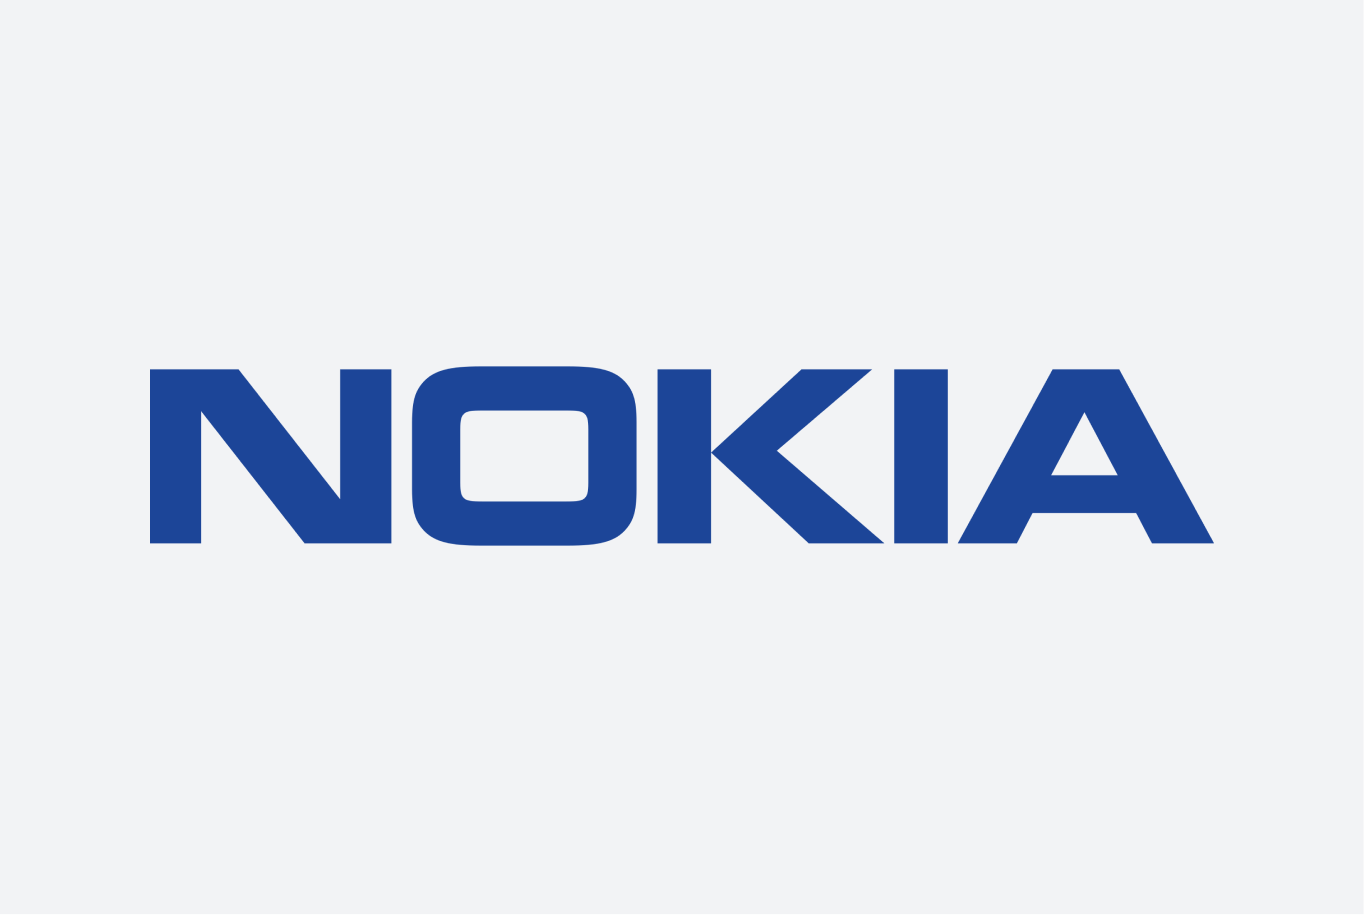
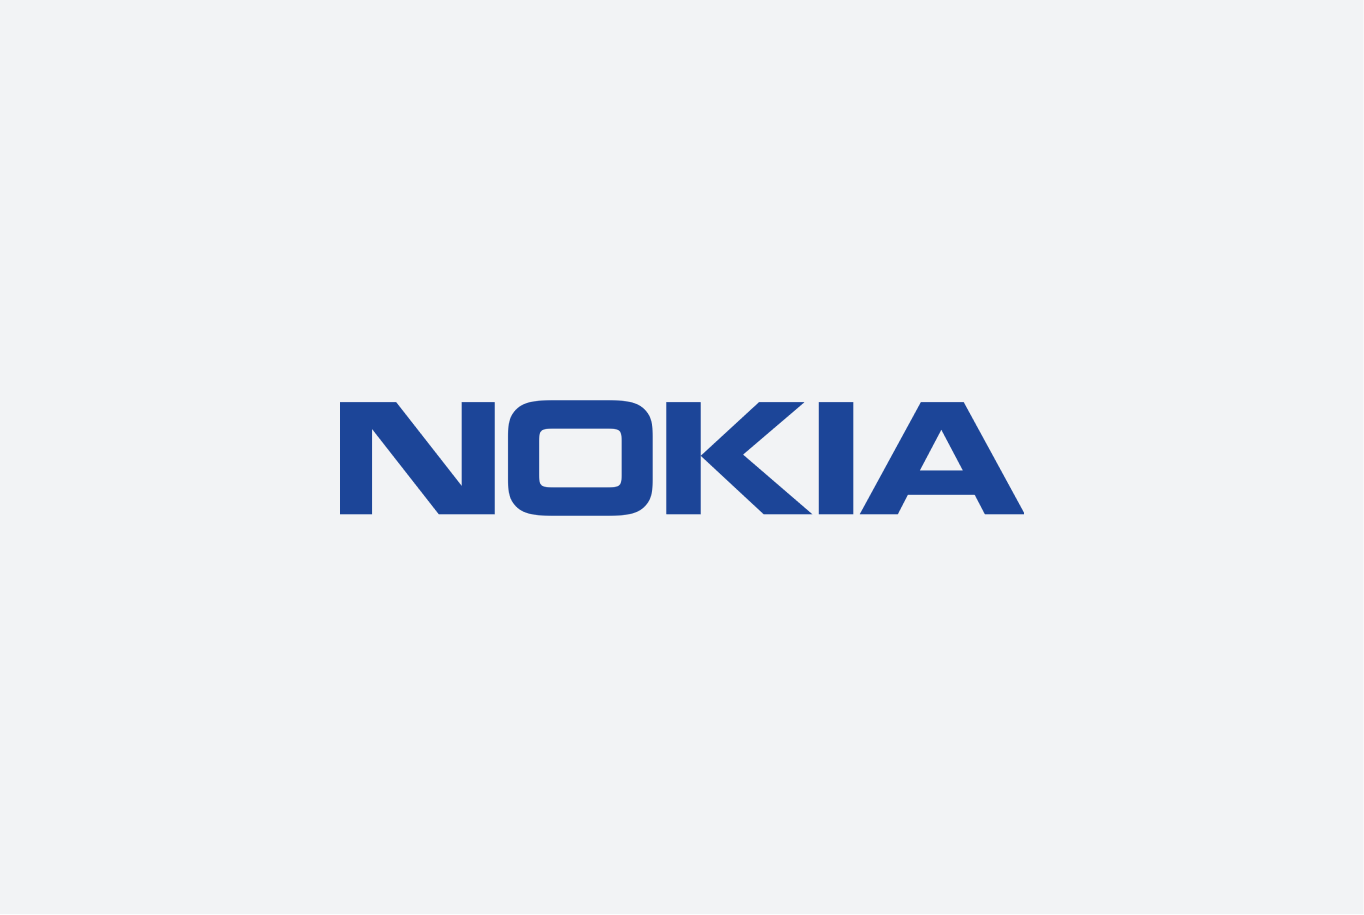
nokia

Changed region(s): [[0.0924, 0.3978, 0.893, 0.612]]

diff --git a/index.html b/index.html
@@ -116,7 +116,7 @@ LottieInteractivity.create({
             <div id="text" class="p1" style="z-index: 2;text-align: center;"><h3>Nokia Design System Redesign</h3>
               <p>Coming soon!</p>
             </div>
-            <a><img class="project1" src="Images/index/Nokia.png" alt="Nokia" style=" max-width: 100%;z-index: 20;position: relative;"></a>
+            <a><img class="project1" src="Images/nokia.png" alt="Nokia" style=" max-width: 100%;z-index: 20;position: relative;"></a>
         </div>
 
 
